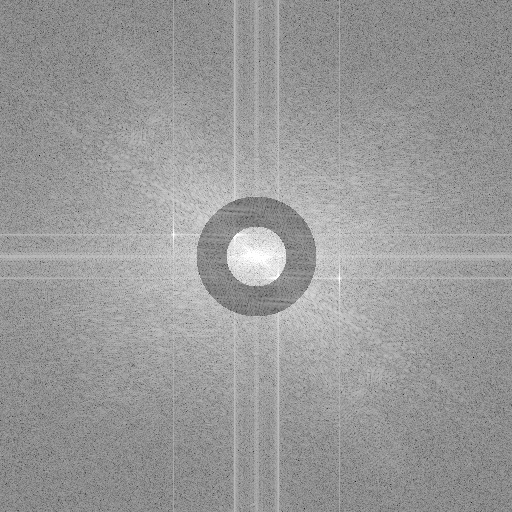
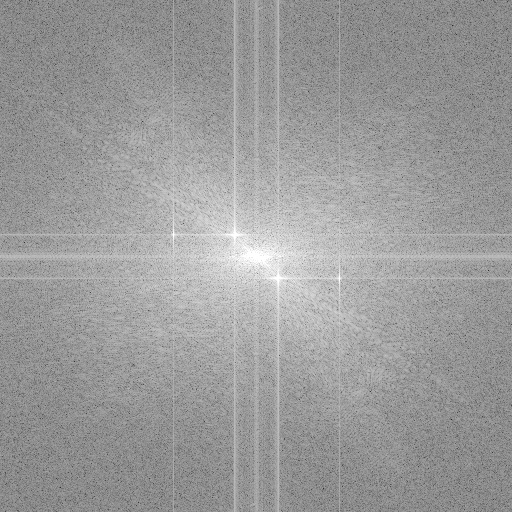
report

Changed region(s): [[0.375, 0.375, 0.625, 0.625]]

diff --git a/README.md b/README.md
@@ -51,3 +51,8 @@
 ![](screen_shots/image_22.png)
 ## 15. if you choose mask method for remove periodic noise, the pop window, contains the fourier of the periodic noise image, will display for you.
 ![](screen_shots/image_23.png)
+## 16. then by mouse click, select the pixels that you want to suppress in fourier transform.
+![](screen_shots/image_24.png)
+## 17. then press any key from keyboard, to out from this pop window.
+## 18. after that, the filtered image and its foueier will display for you.
+![](screen_shots/image_25.png)
